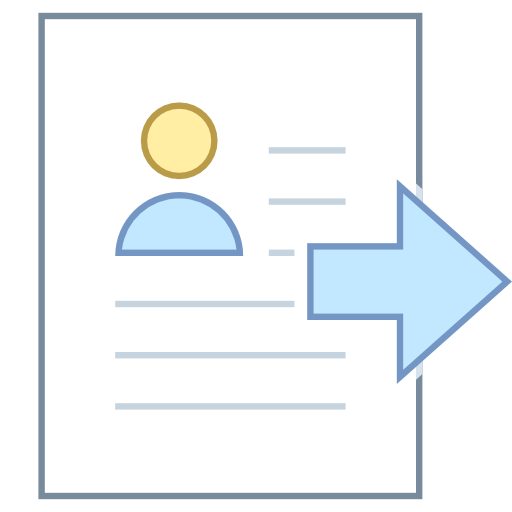
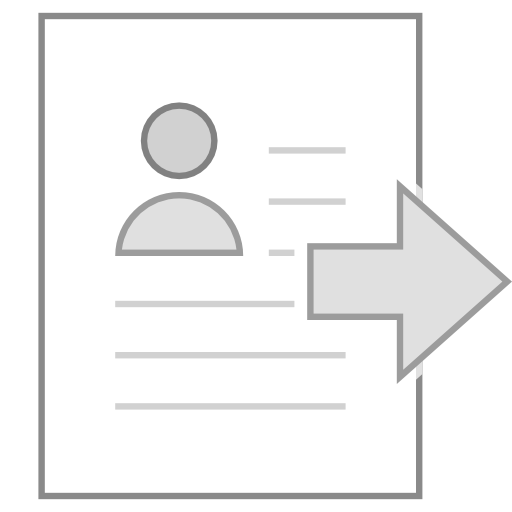
Change color scheme to black and white

Changed region(s): [[0.5938, 0.3438, 1.0, 0.75], [0.2188, 0.1875, 0.5, 0.5]]

diff --git a/assets/css/main.css b/assets/css/main.css
@@ -30,15 +30,13 @@ a {
 }
 
 blockquote {
-    background: #2d3e50;
-    color: #ddd;
-    border-left: 1em solid #1f8dd6;
+    border-left: 1em solid #ddd;
     margin: 1.5em 1em;
     padding: .5em 1em;
     quotes: "\201C""\201D";
 }
 blockquote:before {
-    color: #5B7EA3;
+    color: #222;
     content: open-quote;
     font-size: 4em;
     line-height: .1em;
@@ -101,7 +99,7 @@ blockquote:last-child {
  * I want my pure-button elements to look a little different
  */
 .pure-button {
-    background-color: #1f8dd6;
+    background-color: #111;
     color: white;
     padding: 0.5em 2em;
     border-radius: 5px;
@@ -109,8 +107,8 @@ blockquote:last-child {
 
 a.pure-button-primary {
     background: white;
-    color: #1f8dd6;
-    border: #1f8dd6 solid 3px;
+    color: #222222;
+    border:  3px solid grey;
     border-radius: 5px;
     font-size: 120%;
 }
@@ -127,7 +125,7 @@ a.pure-button-primary {
     box-shadow: 0 1px 1px rgba(0,0,0, 0.10);
 }
 .home-menu {
-    background: #2d3e50;
+    background: #222222;
 }
 .pure-menu.pure-menu-fixed {
     /* Fixed menus normally have a border at the bottom. */
@@ -137,23 +135,23 @@ a.pure-button-primary {
 }
 
 .home-menu .pure-menu-heading {
-    color: white;
+    color: #e7e7e7;
     font-weight: 400;
     font-size: 120%;
 }
 
 .home-menu .pure-menu-selected a {
-    color: white;
+    color: #e7e7e7;
 }
 
 .home-menu a {
-    color: #eee;
+    color: #e7e7e7;
 }
 .home-menu li a:hover,
 .home-menu li a:focus {
     background: none;
     border: none;
-    color: #AECFE5;
+    color: #fff;
 }
 
 
@@ -163,7 +161,8 @@ a.pure-button-primary {
  */
 
 .splash-container {
-    background: #F77050 url(../img/robotdj5.png) no-repeat fixed center center;
+    background-color: black;
+    /*background: #F77050 url(../img/robotdj5.png) no-repeat fixed center center;*/
     z-index: 1;
     overflow: hidden;
     /* The following styles are required for the "scroll-over" effect */
@@ -187,8 +186,8 @@ a.pure-button-primary {
 
 /* This is the main heading that appears on the blue section */
 .splash-head {
-    background: rgba(255,255,255,.1);
-    border: 3px solid black;
+    /*background: rgba(255,255,255,.1);*/
+    /*border: 3px solid grey;*/
     font-size: 1.75em;
     font-weight: bold;
     color: white;
@@ -202,7 +201,7 @@ a.pure-button-primary {
 .splash-subhead {
     color: white;
     font-weight: bold;
-    text-shadow: 0px 0px 1px #2d3e50;
+    text-shadow: 0px 0px 1px grey;
     letter-spacing: 0.05em;
 }
 
@@ -232,16 +231,21 @@ a.pure-button-primary {
 
 /* This is a modifier class used when the content-head is inside a ribbon */
 .content-head-ribbon {
-    color: white;
+    color: eee;
 }
 
 /* This is the class used for the content sub-headers (<h3>) */
 .ribbon .content-subhead {
-    color: #1f8dd6;
-}
-.light-ribbon .content-subhead {
     color: white;
 }
+
+.light-ribbon {
+    background-color: lightgrey;
+} .light-ribbon h2 {
+    color: black;
+}
+
+
 .content-subhead i {
     margin-right: .5em;
 }
@@ -252,14 +256,11 @@ a.pure-button-primary {
 
 /* This is the class used for the background areas. */
 .ribbon {
-    background: #2d3e50;
+    background: #2b2b2b;
     color: #ddd;
+} .ribbon h2 {
+    color: white;
 }
-
-.light-ribbon {
-    background: #1f8dd6;
-}
-
 
 /* This is the class used for the footer */
 .footer {
@@ -353,7 +354,7 @@ a.pure-button-primary {
     bottom: 0;
     width: calc(100vw - 7rem);
     padding: 1em;
-    background: #1f8dd6;
+    background: #111;
     color: white;
     line-height: 1.1em;
 }
@@ -389,7 +390,7 @@ time {
 }
 
 .timeline ul li.in-view::after {
-    background: #1f8dd6;
+    background: #111;
 }
 
 .timeline ul li div {
@@ -411,12 +412,12 @@ time {
     .timeline ul li:nth-child(odd) div::before {
         left: -1.25em;
         border-width: .75em 1.5em .75em 0;
-        border-color: transparent #1f8dd6 transparent transparent;
+        border-color: transparent #111 transparent transparent;
     }
     .timeline ul li:nth-child(even) div::before {
         left: -1.25em;
         border-width: .75em 1.5em .75em 0;
-        border-color: transparent #1f8dd6 transparent transparent;
+        border-color: transparent #111 transparent transparent;
     }
 }
 
@@ -449,12 +450,12 @@ time {
     .timeline ul li:nth-child(odd) div::before {
         left: -1.25em;
         border-width: .75em 1.5em .75em 0;
-        border-color: transparent #1f8dd6 transparent transparent;
+        border-color: transparent #111 transparent transparent;
     }
     .timeline ul li:nth-child(even) div::before {
         right: -1.25em;
         border-width: .75em 0 .75em 1.5em;
-        border-color: transparent transparent transparent #1f8dd6;
+        border-color: transparent transparent transparent #111;
     }
 
     /* Box position */

diff --git a/index.html b/index.html
@@ -84,9 +84,9 @@
 
       </div>
 
-      <div class="content l-box-lrg timeline-container" id="works">
+      <div class="content l-box-lrg light-ribbon" id="works">
         <h2 class="content-head is-center">Selected Works</h2>
-        <div class="timeline">
+        <div class="timeline-container timeline">
           <ul>
             <li>
               <div>
